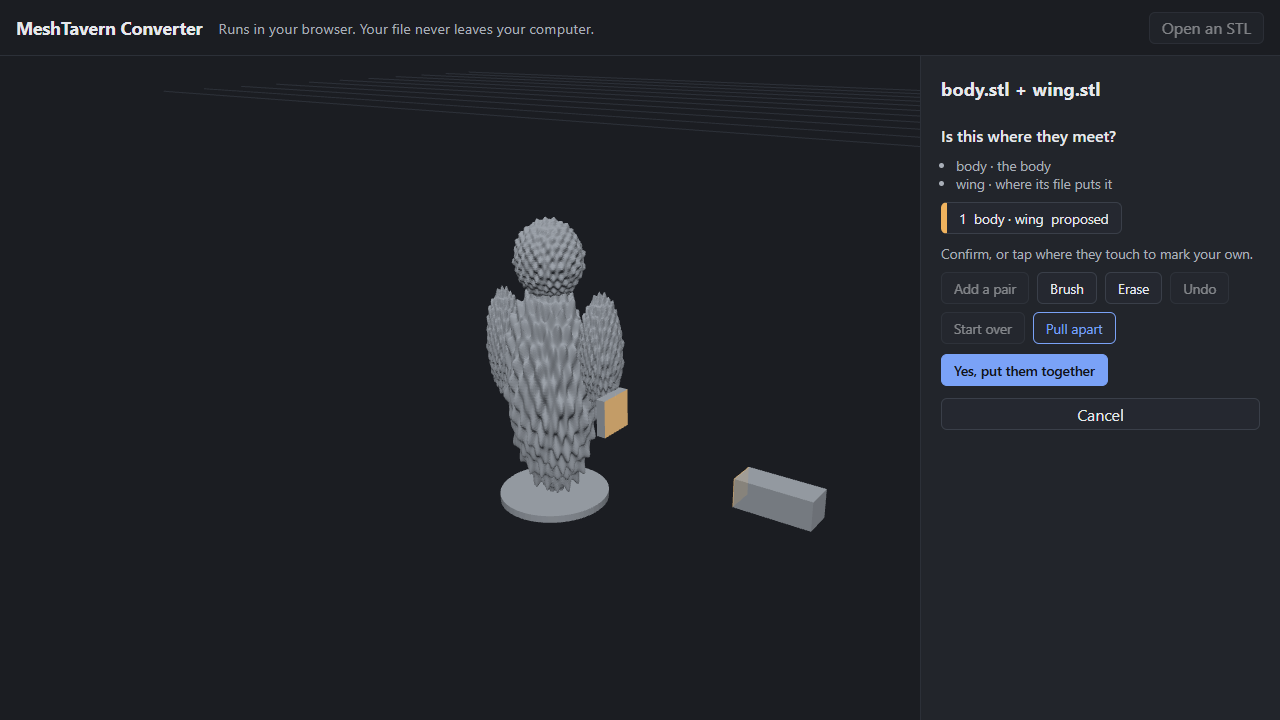
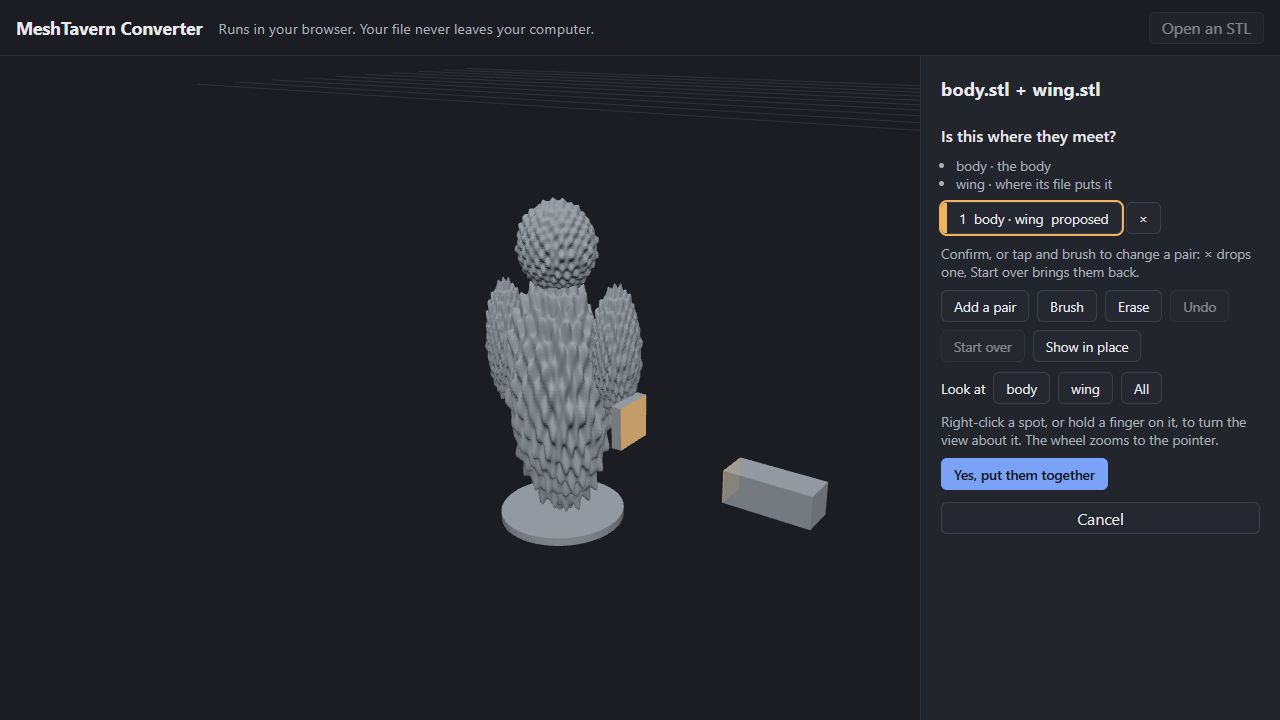
test: a kit laid out for print, and the parts question's screenshots (#93)

diff --git a/e2e/parts.spec.ts b/e2e/parts.spec.ts
@@ -192,6 +192,50 @@ test('makes parts of one figure when there is no base, pulls them apart, refuses
   expect(await page.evaluate(() => window.__mt.state.errorCode)).toBe('too-many-files');
 });
 
+/** A soup moved onto its own print plate: centred on the origin across x and y, on z = 0. */
+function onItsPlate(soup: Float32Array): Float32Array {
+  const min = [Infinity, Infinity, Infinity];
+  const max = [-Infinity, -Infinity, -Infinity];
+  for (let i = 0; i < soup.length; i += 3)
+    for (let k = 0; k < 3; k++) {
+      min[k] = Math.min(min[k]!, soup[i + k]!);
+      max[k] = Math.max(max[k]!, soup[i + k]!);
+    }
+  return movedSoup(soup, [-(min[0]! + max[0]!) / 2, -(min[1]! + max[1]!) / 2, -min[2]!]);
+}
+
+test('lays a kit exported for print in a row, with nothing proposed', async ({
+  page,
+}, testInfo) => {
+  test.setTimeout(240_000);
+  await open(page);
+  const { body, wing, tip } = generateWingedFigure();
+  await page.setInputFiles('#file', [
+    file('body.stl', onItsPlate(body)),
+    file('wing.stl', onItsPlate(wing)),
+    file('tip.stl', onItsPlate(tip)),
+    file('recess-base.stl', generateRecessBase()),
+  ]);
+  const parts = (await question(page)) as MeetAsked;
+  expect(parts).toMatchObject({ about: 'parts', stage: 'pairs', proposed: true, inPlace: false });
+  expect(parts.pairs).toEqual([]);
+  await expect(page.locator('#meet-hint')).toHaveText(
+    'Each part comes on its own. Tap where two parts touch, on both, to put them together.',
+  );
+  await expect(page.locator('#meet-apart')).toBeHidden();
+  await expect(page.locator('#meet-parts li')).toHaveText([
+    'body · the body',
+    'wing · lies apart: mark where it goes',
+    'tip · lies apart: mark where it goes',
+  ]);
+  // Side by side, left to right in the order of the parts.
+  const xs = parts.apart!.shown.map((s) => s.translation[0]);
+  expect(xs[1]).toBeGreaterThan(xs[0]!);
+  expect(xs[2]).toBeGreaterThan(xs[1]!);
+  await shoot(page, testInfo, 'parts-laid-in-a-row');
+  await page.evaluate(() => window.__mt.cancel());
+});
+
 test('drops the joints when another base is chosen after them', async ({ page }) => {
   test.setTimeout(240_000);
   await open(page);
